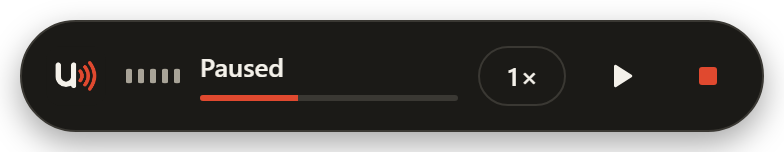
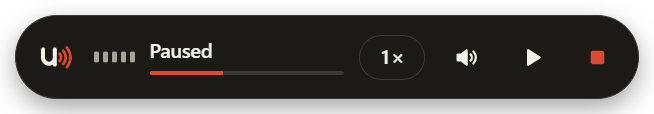
Show the bar's new volume button

diff --git a/index.html b/index.html
@@ -130,7 +130,7 @@
               <p>Select text in Word, a PDF, Outlook, Slack, Chrome or anything else, press <kbd>Ctrl</kbd>+<kbd>Alt</kbd>+<kbd>R</kbd>, and a small bar appears at the bottom of your screen and reads it to you.</p>
               <ul class="ticks">
                 <li>One keyboard shortcut, and you choose it</li>
-                <li>Floating bar with pause, speed and stop</li>
+                <li>Floating bar with pause, speed, volume and stop</li>
                 <li>Voice, speed and volume that change instantly</li>
                 <li>Updates itself automatically</li>
               </ul>
@@ -306,12 +306,12 @@
           <ol class="steps">
             <li><strong>Select some text</strong> in any app.</li>
             <li><strong>Press <kbd>Ctrl</kbd> + <kbd>Alt</kbd> + <kbd>R</kbd>.</strong> The Uttr bar slides up and reads it aloud.</li>
-            <li><strong>Control it from the bar</strong>: pause, change speed or stop. Or just press <kbd>Esc</kbd>.</li>
+            <li><strong>Control it from the bar</strong>: pause, change speed or volume, or stop. Or just press <kbd>Esc</kbd>.</li>
           </ol>
 
           <figure class="guide-figure">
-            <img src="images/bar-reading.png" alt="Uttr bar while reading: logo, sound wave, progress line, speed, pause and stop buttons" width="392" height="76" loading="lazy">
-            <img src="images/bar-paused.png" alt="Uttr bar while paused" width="392" height="76" loading="lazy">
+            <img src="images/bar-reading.png" alt="Uttr bar while reading: logo, sound wave, progress line, speed, volume, pause and stop buttons" width="436" height="76" loading="lazy">
+            <img src="images/bar-paused.png" alt="Uttr bar while paused" width="436" height="76" loading="lazy">
             <figcaption>The bar while reading (top) and paused (bottom)</figcaption>
           </figure>
 
@@ -324,6 +324,7 @@
               <tr><td>Stop</td><td><kbd>Esc</kbd>, the shortcut again, or <strong>■</strong> on the bar</td></tr>
               <tr><td>Pause / resume</td><td><strong>⏸ / ▶</strong> on the bar, which resumes from the same word</td></tr>
               <tr><td>Faster / slower</td><td>Click the <strong>1×</strong> button on the bar</td></tr>
+              <tr><td>Louder / quieter</td><td>Click the <strong>🔊</strong> button on the bar, or scroll the mouse wheel over it</td></tr>
               <tr><td>Change shortcut, voice, speed, volume</td><td>Click the Uttr icon near the clock to open <strong>Settings</strong></td></tr>
               <tr><td>Start with Windows</td><td>Turn it on in <strong>Settings → General</strong></td></tr>
               <tr><td>Check for updates</td><td>Right-click the Uttr icon → <strong>Check for updates</strong></td></tr>
